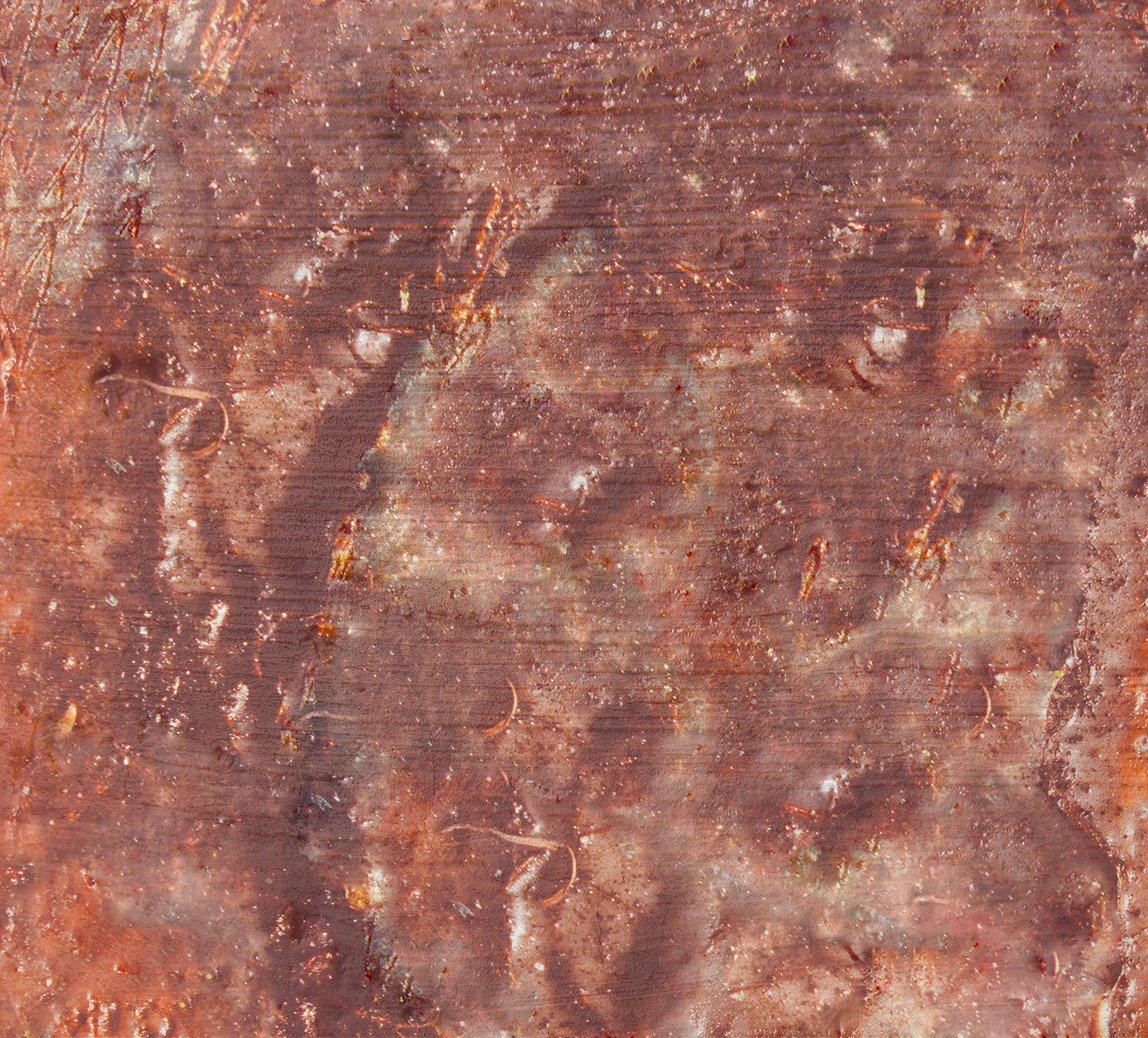
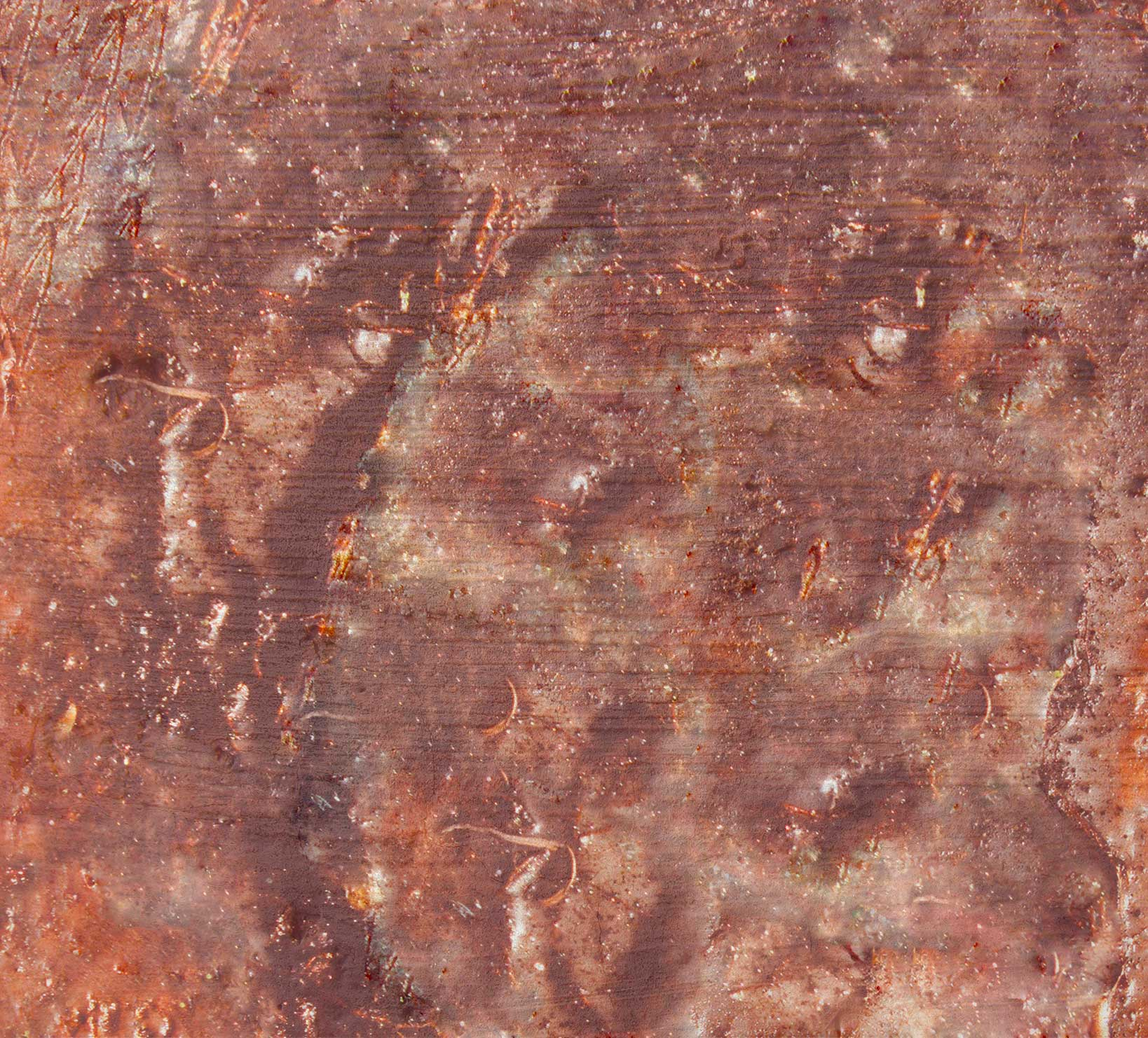
compressed images_ first trial

diff --git a/public/index.html b/public/index.html
@@ -69,13 +69,13 @@
 					<p>Rebekah Todd is a singer/songwriter from Raleigh, NC. While her songwriting speaks for itself, it is on the stage that one can truly begin to appreciate her depth and sincerity as they follow along with the dips and swells of emotion that Rebekah Todd brings to every performance.</p>
 				</div>
 				<div class="slider">
-					<img src="images/gallery_close_up.png">
-					<img src="images/peasants_pub.png">
-					<img src="images/rebekah_stairs.png">
+					<img src="images/gallery_close_up.jpg">
+					<img src="images/peasants_pub.jpg">
+					<img src="images/rebekah_stairs.jpg">
 					<img src="images/rebekah_album.png">
-					<img src="images/peasants_pub2.png">
-					<img src="images/rebekah_stand_wall.png">
-					<img src="images/peasants_pub3.png">
+					<img src="images/peasants_pub2.jpg">
+					<img src="images/rebekah_stand_wall.jpg">
+					<img src="images/peasants_pub3.jpg">
 				</div>
 			</div>
 

diff --git a/public/css/rebekah_todd.css b/public/css/rebekah_todd.css
@@ -44,7 +44,7 @@
 				text-align: center;
 			}
 			#home {
-				background: url(../images/rebekah_wall1.jpg) no-repeat fixed;
+				background: url(../images/rebekah_wall.jpg) no-repeat fixed;
 				background-position: center;
 				background-size: cover;
 				height: 1000px;
